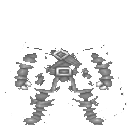
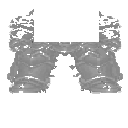
feat: rogue native leather body at hunter quality
Rebake rogue _src gold master from warrior silhouettes + leather ramp; helm coif unchanged. Mage/healer native body deferred (hat in _src).

diff --git a/tool/upgrade_native_body_src.py b/tool/upgrade_native_body_src.py
@@ -1,0 +1,116 @@
+"""Upgrade native body armor via dressed _src gold masters.
+
+Hunter-quality silhouettes come from warrior plate remapped per family material.
+We bake them into `_src/body_idle.png`, then re-run `build_owned_gear_layers`
+so extracts + facit idle stack stay aligned.
+
+Rogue helm stays authored (`refresh_native_gear.py`) — not painted into _src.
+"""
+from __future__ import annotations
+
+import shutil
+import subprocess
+import sys
+from pathlib import Path
+
+from PIL import Image, ImageEnhance
+
+from build_owned_gear_layers import (
+    TUNIC,
+    bbox,
+    process_family,
+    recolor_to_cloth,
+    sample_face,
+    write_armor_preview,
+)
+from derive_armor_material_variants import (
+    CONVERTERS,
+    NATIVE_MATERIAL,
+    SLOTS,
+    family_src,
+    load_donor,
+    remap_overlay,
+    slot_y_anchor,
+)
+
+REPO = Path(__file__).resolve().parents[1]
+ROOT = REPO / "assets" / "custom" / "char"
+TOOL = REPO / "tool"
+DONOR = "warrior"
+# Mage/healer _src includes hat pixels — rebaking body armor needs a separate
+# hat-aware pass. Rogue has no helm in _src so this is safe today.
+UPGRADE_FAMILIES = ("rogue",)
+BODY_SLOTS = ("cloak", "legs", "chest", "hands")
+
+
+def to_cloth(im: Image.Image, family: str) -> Image.Image:
+    cloth_light, _cloth_dark = TUNIC[family]
+    out = im.copy()
+    px = out.load()
+    for y in range(128):
+        for x in range(128):
+            r, g, b, a = px[x, y]
+            if a < 12:
+                continue
+            px[x, y] = recolor_to_cloth((r, g, b), cloth_light, a)
+    return ImageEnhance.Contrast(out).enhance(1.06)
+
+
+def convert_native(im: Image.Image, family: str) -> Image.Image:
+    material = NATIVE_MATERIAL[family]
+    if material == "cloth":
+        return to_cloth(im, family)
+    return CONVERTERS[material](im)
+
+
+def native_slot_overlay(family: str, slot: str) -> Image.Image:
+    _src, dest_box, _face = family_src(family)
+    donor_im = load_donor(DONOR, slot, "t0", "idle", NATIVE_MATERIAL[DONOR])
+    placed = remap_overlay(donor_im, dest_box, y_anchor=slot_y_anchor(slot))
+    return convert_native(placed, family)
+
+
+def composite_dressed_src(family: str) -> Image.Image:
+    body = Image.open(ROOT / family / "body_idle.png").convert("RGBA")
+    layers = {slot: native_slot_overlay(family, slot) for slot in BODY_SLOTS}
+    out = Image.new("RGBA", (128, 128), (0, 0, 0, 0))
+    for slot in ("cloak", "body", "legs", "chest", "hands"):
+        if slot == "body":
+            out = Image.alpha_composite(out, body)
+        else:
+            out = Image.alpha_composite(out, layers[slot])
+    if family in ("mage", "healer"):
+        helm = Image.open(ROOT / family / "gear" / "helm_t0_idle.png").convert("RGBA")
+        out = Image.alpha_composite(out, helm)
+    return out
+
+
+def upgrade_family(family: str) -> None:
+    src_path = ROOT / family / "_src" / "body_idle.png"
+    backup = src_path.with_suffix(".png.bak")
+    if not backup.exists():
+        shutil.copyfile(src_path, backup)
+    dressed = composite_dressed_src(family)
+    dressed.save(src_path)
+    print("upgraded _src", src_path.relative_to(REPO))
+
+
+def rebuild_extracts(families: tuple[str, ...]) -> None:
+    built: dict = {}
+    for family in families:
+        built[family] = process_family(family)
+        write_armor_preview(family, built[family])
+
+
+def main() -> int:
+    for family in UPGRADE_FAMILIES:
+        upgrade_family(family)
+    rebuild_extracts(UPGRADE_FAMILIES)
+    subprocess.check_call([sys.executable, str(TOOL / "refresh_native_gear.py")])
+    subprocess.check_call([sys.executable, str(TOOL / "derive_armor_material_variants.py")])
+    print("done — run py tool/check_paper_doll_facit.py --relock")
+    return 0
+
+
+if __name__ == "__main__":
+    raise SystemExit(main())

diff --git a/docs/CHARACTER_VISUALS.md b/docs/CHARACTER_VISUALS.md
@@ -55,9 +55,10 @@ Mail helms remap warrior plate coif onto each family head (face punch). Body
 slots remap donor family silhouettes, then material ramp. Fallback recolor only
 when no donor exists.
 
-Derived by `tool/derive_armor_material_variants.py`. Rogue native leather helm
-(authored, no hat in `_src`) also refreshes via `tool/refresh_native_gear.py`.
-Body slots stay `_src` extracts until gold masters are repainted. **Rarity = UI chrome**
+Derived by `tool/derive_armor_material_variants.py`. Rogue native gear (leather
+body + helm) upgrades via `tool/upgrade_native_body_src.py` + `refresh_native_gear.py`
+— rebakes `_src/body_idle.png` then re-extracts. Mage/healer hats live in `_src`;
+their native body pass needs a hat-aware bake (TODO). **Rarity = UI chrome**
 (GEAR borders / text tint) — unique looks are authored PNGs, not orange doll
 washes. Weapons: `*_t0` plus named models
 (`sword_thunderfury`, `sword_emberfang`, `staff_voidspire`, …) — hue variants

diff --git a/.cursor/skills/character-paper-doll/SKILL.md b/.cursor/skills/character-paper-doll/SKILL.md
@@ -50,8 +50,9 @@ Weapons / shields are often **not** in `_src`. They need authored overlays under
    `--t2-only` to refresh it without rebuilding bases.
 3. Inspect `tool/preview_doll_<family>.png` (armor stack). Must read as the same
    character as `_src`, not a grey mushroom head.
-4. Rogue native leather helm only: `py tool/refresh_native_gear.py` (body slots
-   must stay `_src` extracts for facit). Cross-material: `derive_armor_material_variants.py`.
+4. Rogue native leather (body + helm): `py tool/upgrade_native_body_src.py` then
+   `py tool/refresh_native_gear.py`. Cross-material: `derive_armor_material_variants.py`.
+   Mage/healer native body still uses `_src` hat extract until a hat-aware bake exists.
 5. Run `py tool/check_paper_doll_facit.py` — composites **live** body+overlays
    vs `_src` (no gitignored preview required). Fail if idle armor stack drifts.
    It also gates t2 / mail / plate / leather variants (silhouette vs native +
